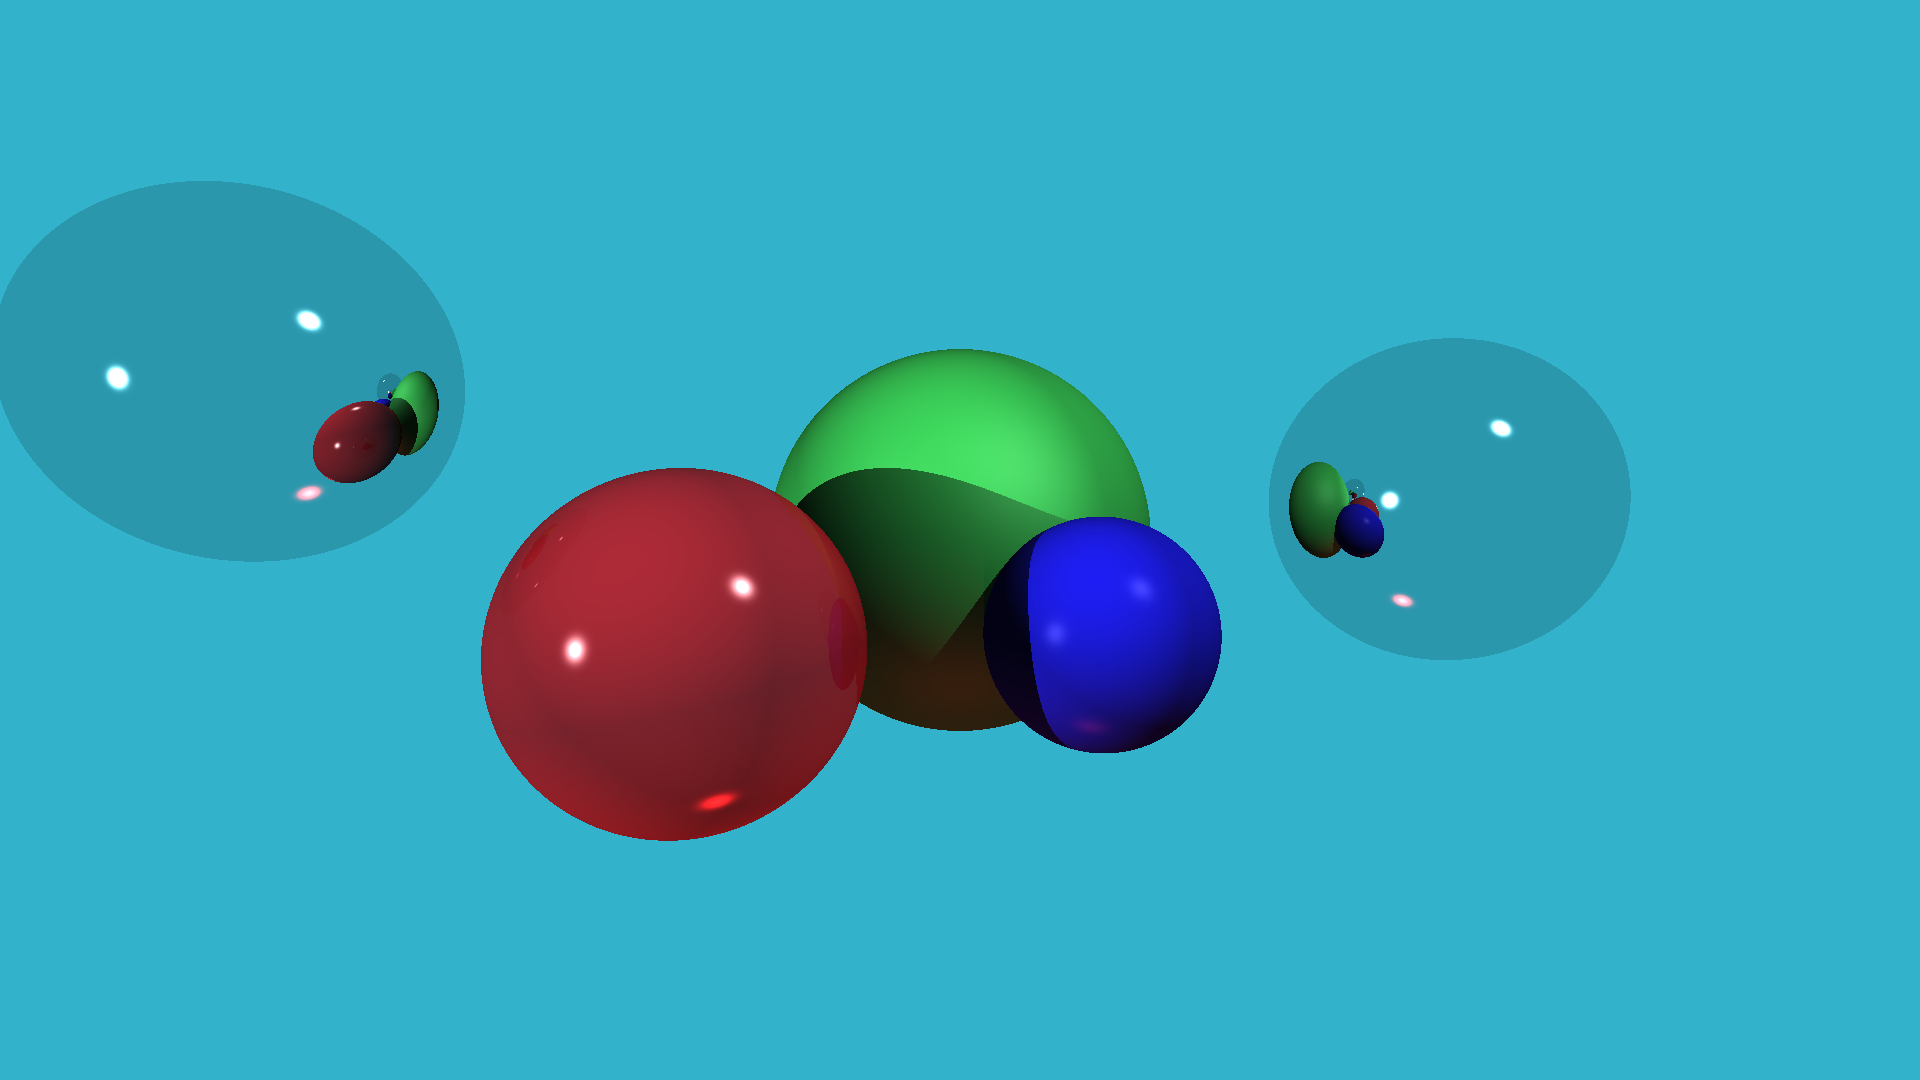
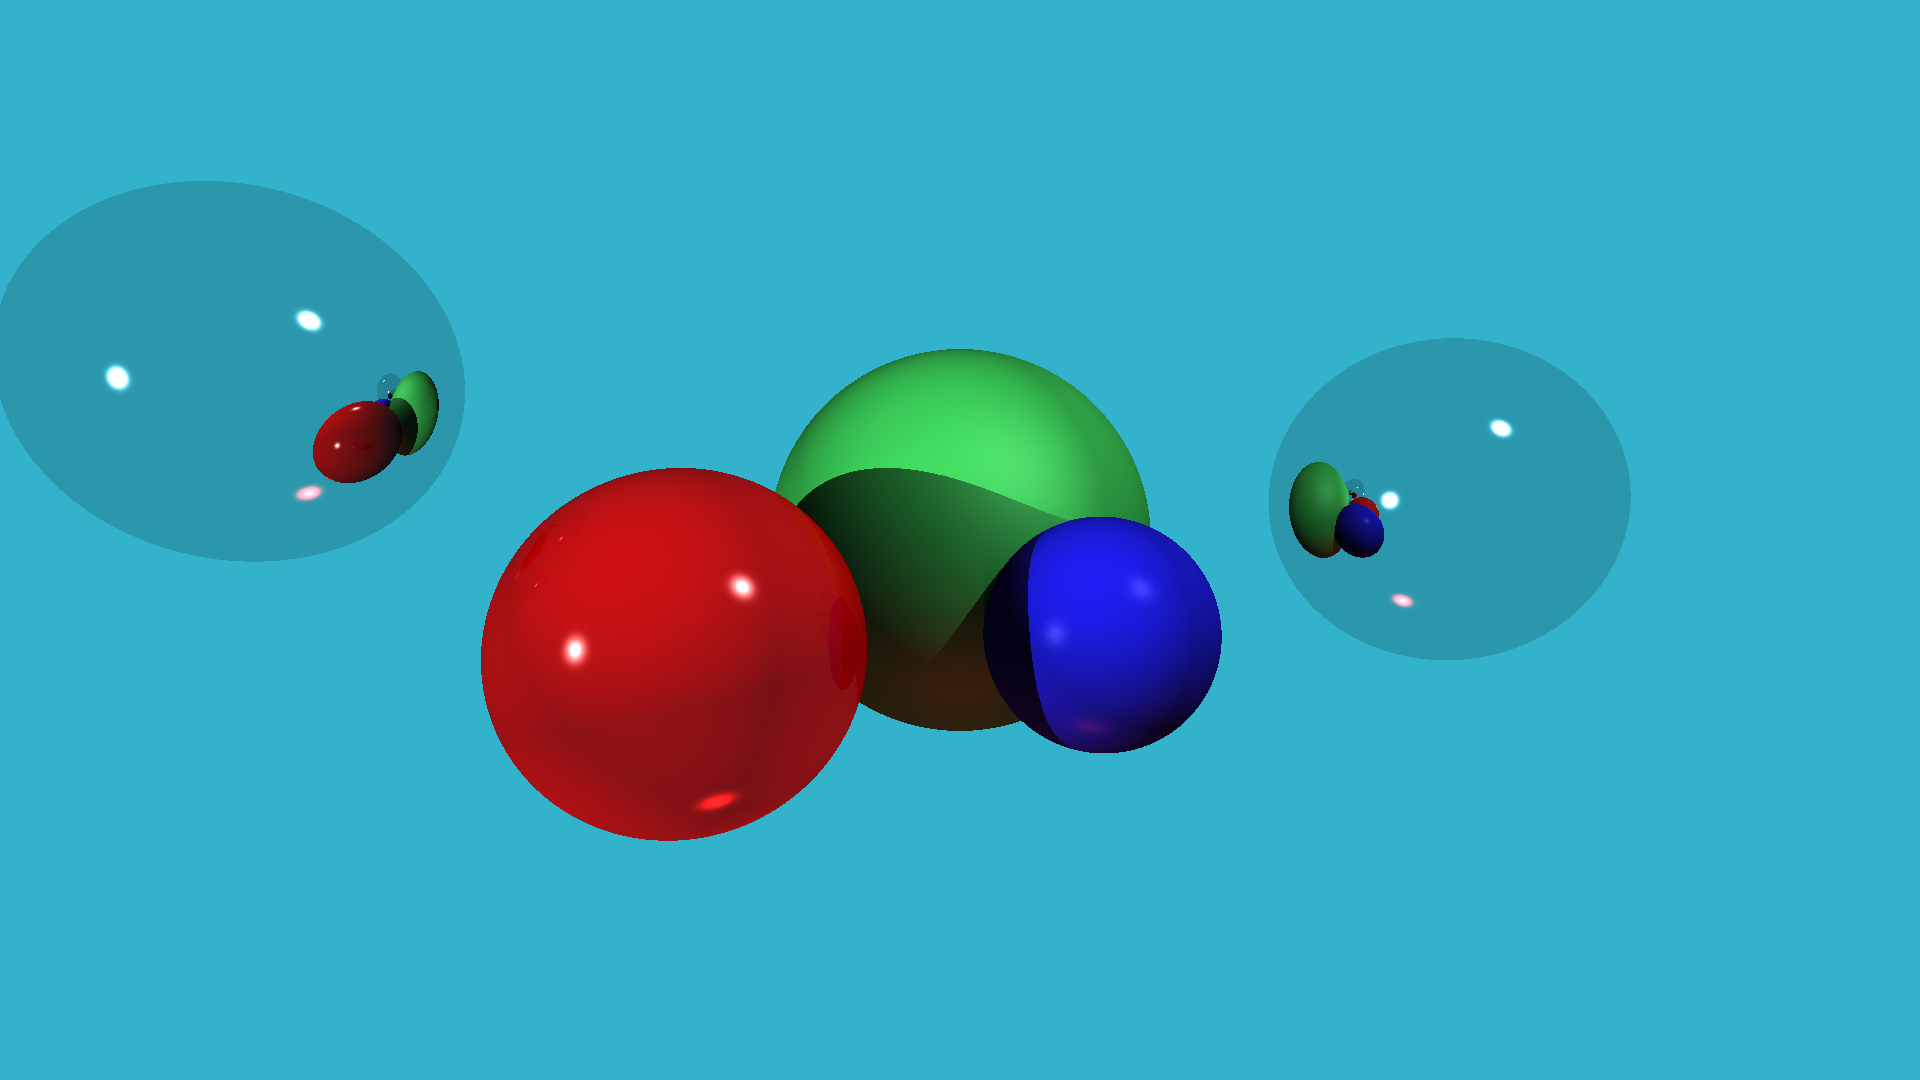
small fixes

Changed region(s): [[0.25, 0.4278, 0.4688, 0.7944], [0.1562, 0.3667, 0.1875, 0.3972]]

diff --git a/RayTracer.cpp b/RayTracer.cpp
@@ -16,7 +16,7 @@
 
 void RayTracer::initObjects() {
     
-    Material red_surface(Vector3f(0.67f, 0.1f, 0.14f), 1.0f, 200.0f, 1.5f, true, 0.1f);
+    Material red_surface(Vector3f(0.8f, 0.0f, 0.0f), 1.0f, 200.0f, 1.5f, true, 0.1f);
     Material green_surface(Vector3f(0.2f, 0.7f, 0.3f), 1.0f, 5.0f, 0.1f, false, 0.0f);
     Material blue_surface(Vector3f(0.1f, 0.1f, 0.8f), 1.0f, 60.0f, 0.2f, false, 0.0f);
     Material reflector_surface(Vector3f(0.0f, 0.0f, 0.0f), 0.0f, 500.0f, 5.0f, true, 0.85f);
@@ -79,8 +79,8 @@ Primitive& RayTracer::detectNearestObject(const Ray& ray) {
     return objects[nearest_object_id];
 }
 
-Vector3f reflect(const Vector3f& from_source, const Vector3f& normal) {
-    return (normal * 2.0f * (from_source * normal) - from_source).normalize();
+Vector3f reflect(const Vector3f& to_source, const Vector3f& normal) {
+    return (normal * 2.0f * (to_source * normal) - to_source).normalize();
 }
 
 Vector3f RayTracer::castRay(const Ray& ray, size_t depth = 0) {
@@ -103,7 +103,7 @@ Vector3f RayTracer::castRay(const Ray& ray, size_t depth = 0) {
     for (size_t i = 0; i < lights.size(); ++i) {
 
         Vector3f light_segment = point - lights[i].position;
-        Vector3f light_dir = (lights[i].position - point).normalize();
+        Vector3f to_light_dir = (lights[i].position - point).normalize();
 
         float distance = sqrtf(light_segment * light_segment);
         float intersect_dist = std::numeric_limits<float>::max();
@@ -111,7 +111,7 @@ Vector3f RayTracer::castRay(const Ray& ray, size_t depth = 0) {
         bool in_shadow = false;
 
         for (size_t j = 0; j < objects.size(); j++) {
-            objects[j].figure->processRayIntersect(lights[i].position, -light_dir, intersect_dist);
+            objects[j].figure->processRayIntersect(lights[i].position, -to_light_dir, intersect_dist);
 
             if (intersect_dist < distance) {
                 in_shadow = true;
@@ -122,9 +122,9 @@ Vector3f RayTracer::castRay(const Ray& ray, size_t depth = 0) {
         if (in_shadow) continue;
 
 
-        float diff_intensity = std::max(0.0f, light_dir * normal);
+        float diff_intensity = std::max(0.0f, to_light_dir * normal);
         
-        Vector3f reflect_dir = reflect(light_dir, normal);
+        Vector3f reflect_dir = reflect(to_light_dir, normal);
         float spec_intensity = std::pow(std::max(0.0f, reflect_dir * view_dir), nearest_object.material.specular_power);
 
         diffuse += lights[i].color * lights[i].intensity * diff_intensity;
